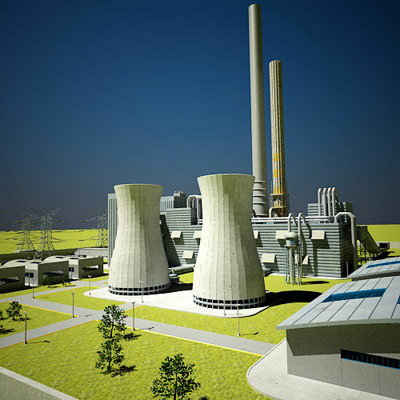
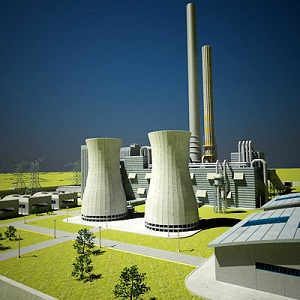
add new image, change gfx size

diff --git a/assets/css/theme.css b/assets/css/theme.css
@@ -72,8 +72,8 @@ body{
 }
 
 .building{
-    height: 400px;
-    width: 400px;
+    height: 300px;
+    width: 300px;
     background-color: white;
     border: 3px solid black;
     border-radius: 15px;
@@ -97,6 +97,11 @@ body{
 #wt{
     margin: 5px;
     background-image: url("../gfx/wt.png");
+}
+
+#bioGas{
+    margin: 5px;
+    background-image: url("../gfx/bioGas.png");
 }
 
 #sl{
